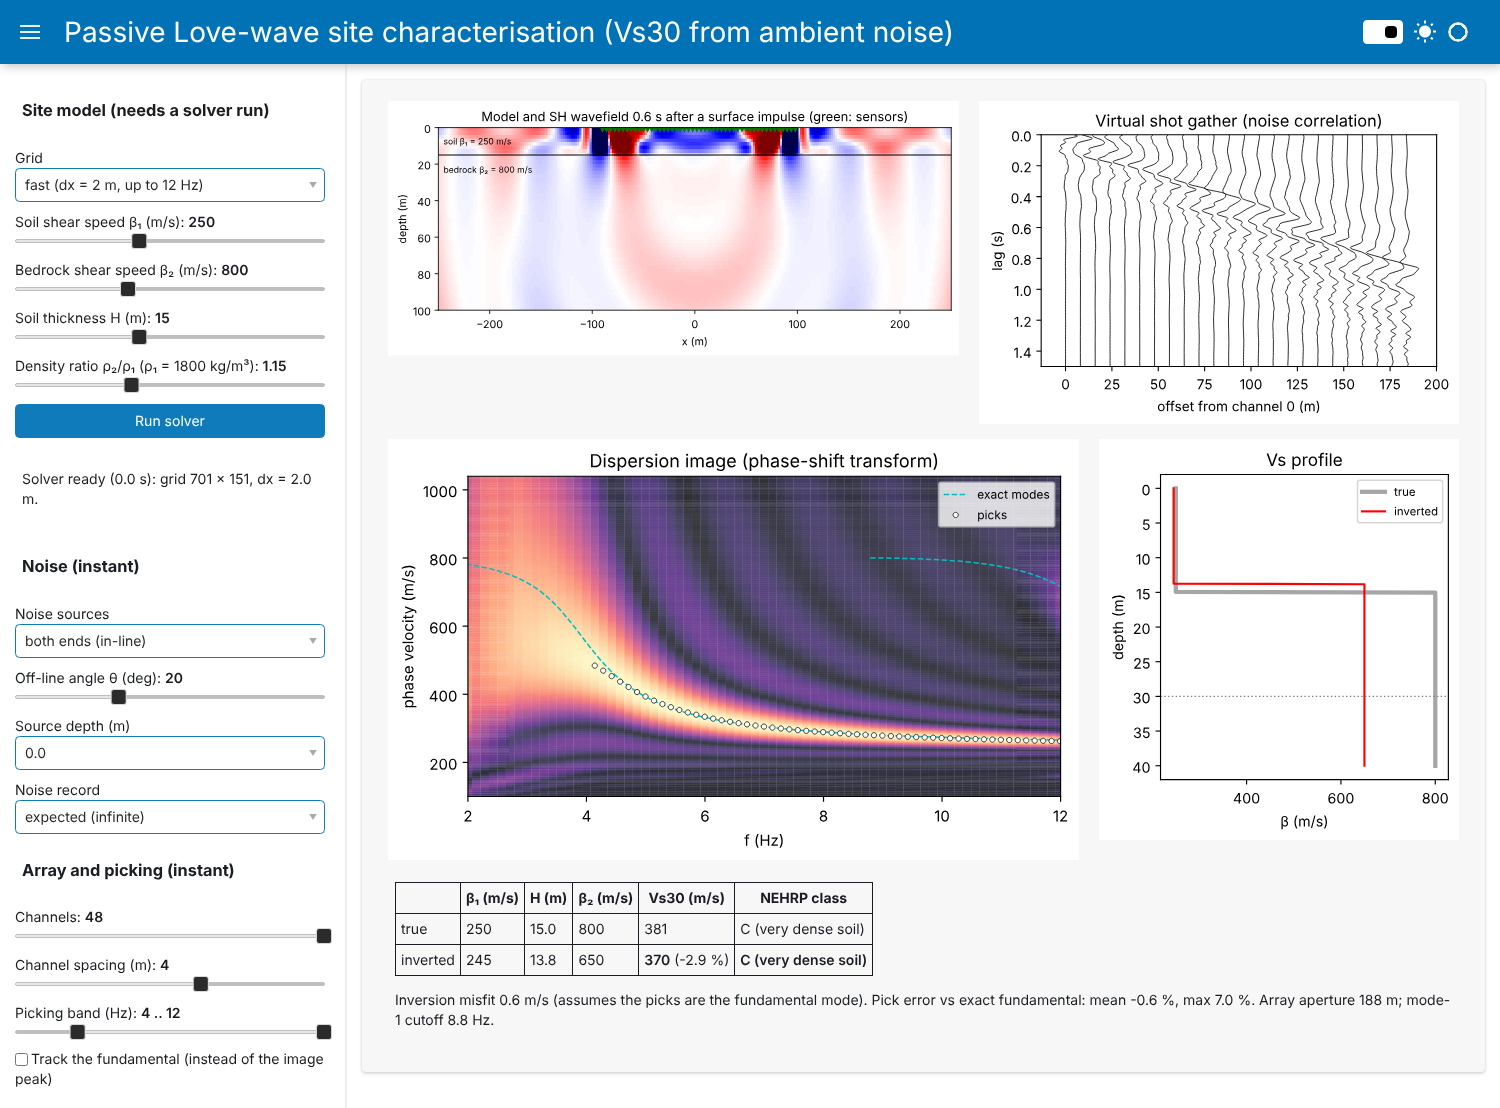
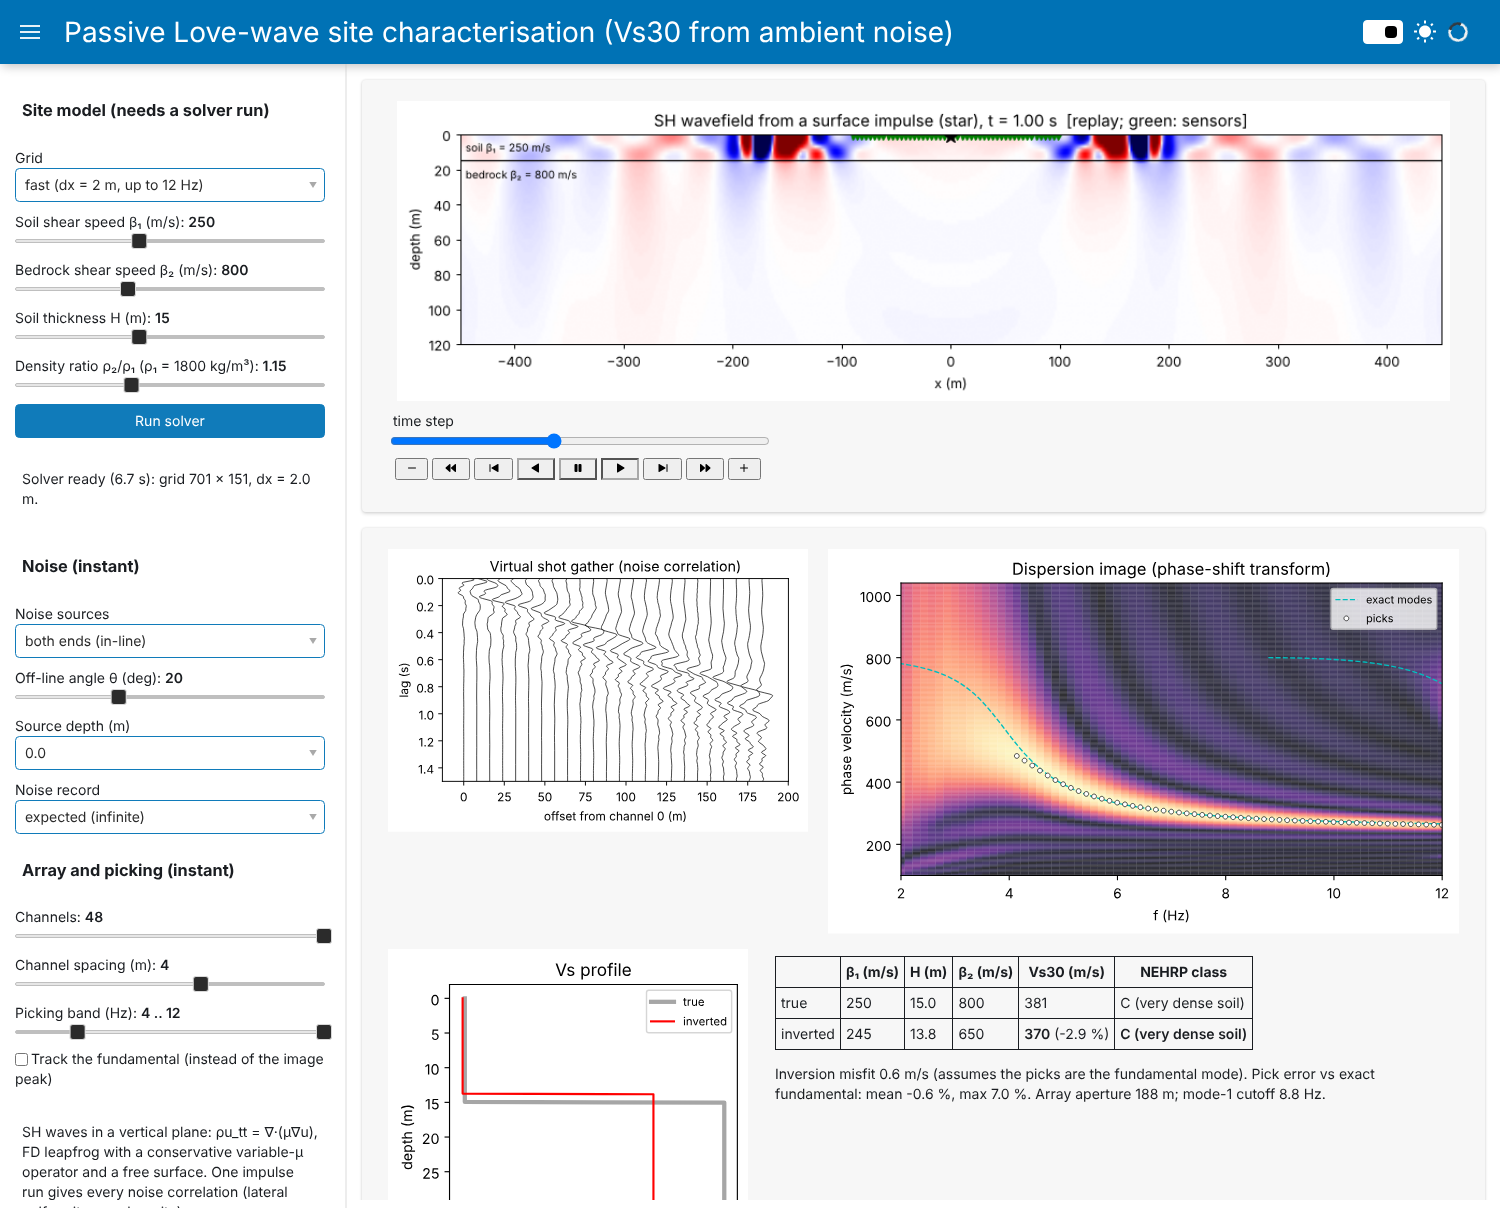
Site app: animate the SH wavefield (live during the solve, then a looping replay)
Claude-Session: https://claude.ai/code/session_011ua6V7MJqqKvH74CcxidF8

diff --git a/site_app.py b/site_app.py
@@ -6,8 +6,9 @@ All numerics live in love_waves.py; this file only wires widgets to plots.
 
 Two kinds of controls:
   * Site model and grid: need one new FD run (a few seconds on the fast grid, ~30-60 s on
-    the standard grid), started with "Run solver". Results are cached in memory and on
-    disk (.cache/), so each model is only ever solved once.
+    the standard grid), started with "Run solver". The wavefield is drawn live while the
+    solver runs, then replayed as a looping animation (play/pause/scrub with the player).
+    Results are cached in memory and on disk (.cache/), so each model is only solved once.
   * Noise sources, array and picking: only re-weight the stored Green's functions, so the
     plots update instantly.
 """
@@ -25,9 +26,9 @@ GRIDS = {"fast (dx = 2 m, up to 12 Hz)": (2.0, 12.0), "standard (dx = 1 m, up to
 C_TRIAL = np.linspace(100, 1300, 601)
 
 
-def love_line(site, dx, progress=None):
+def love_line(site, dx, progress=None, on_snapshot=None):
     """One FD impulse run for a site, cached in memory (all sessions) and on disk."""
-    key = f"love_dx{dx}_b{site.b1:.0f}-{site.b2:.0f}_H{site.H:.1f}_r{site.r1:.0f}-{site.r2:.0f}"
+    key = f"love_v2_dx{dx}_b{site.b1:.0f}-{site.b2:.0f}_H{site.H:.1f}_r{site.r1:.0f}-{site.r2:.0f}"
     mem = pn.state.cache.setdefault("love", {})
     if key in mem:
         return mem[key]
@@ -35,7 +36,7 @@ def love_line(site, dx, progress=None):
     if path.exists():
         ll = pickle.loads(path.read_bytes())
     else:
-        ll = L.LoveLine(site, L.Grid(dx=dx), progress=progress)
+        ll = L.LoveLine(site, L.Grid(dx=dx), progress=progress, on_snapshot=on_snapshot)
         CACHE_DIR.mkdir(exist_ok=True)
         path.write_bytes(pickle.dumps(ll))
     mem[key] = ll
@@ -64,7 +65,7 @@ w_dch = pn.widgets.FloatSlider(name="Channel spacing (m)", start=1, end=6, step=
 w_band = pn.widgets.RangeSlider(name="Picking band (Hz)", start=2, end=20, step=0.5, value=(4, 12))
 w_track = pn.widgets.Checkbox(name="Track the fundamental (instead of the image peak)", value=False)
 refresh = pn.widgets.IntInput(value=0, visible=False)
-state = {"ll": None}
+state = {"ll": None, "lim": 1.0}
 
 
 def current_site():
@@ -82,12 +83,26 @@ async def rerun(_=None):
         bar.value = int(100 * q)
         print(f"  FD solver: {100 * q:3.0f}%", flush=True)
 
+    grid = L.Grid(dx=dx)
+    player.disabled = True
+    player.pause()
+
+    last = [0.0]
+
+    def live(t, frame):                 # called from the worker thread for every new frame
+        if time.time() - last[0] < 0.4:  # draw at most ~2.5 frames/s so the solver isn't slowed
+            return
+        last[0] = time.time()
+        lim = max(np.percentile(np.abs(frame), 99.5), 1e-30)
+        wave_pane.object = wave_figure(frame, t, site, grid.half_width, grid.depth, lim, live=True)
+
     try:
-        state["ll"] = await asyncio.to_thread(love_line, site, dx, progress)
+        state["ll"] = await asyncio.to_thread(love_line, site, dx, progress, live)
         g = state["ll"].grid
         status.object = f"Solver ready ({time.time() - t0:.1f} s): grid {g.nx} x {g.nz}, dx = {dx} m."
         w_band.end = fmax
         w_band.value = (w_band.value[0], min(w_band.value[1], fmax))
+        start_movie()
     except Exception as err:
         status.object = f"**Solver failed:** {err!r}"
         raise
@@ -100,21 +115,53 @@ w_run.on_click(rerun)
 pn.state.onload(rerun)
 
 
-# ---------------------------------------------------------------- plots
-def section_plot(ll, rx):
-    fig = Figure(figsize=(7.5, 3.4)); ax = fig.subplots()
-    snap = ll.snaps[0.6]; lim = np.percentile(np.abs(snap), 99.5)
-    hw = ll.grid.half_width
-    ax.imshow(snap, extent=[-hw, hw, ll.z_snap[-1], 0], cmap="seismic", vmin=-lim, vmax=lim, aspect="auto")
-    ax.axhline(ll.site.H, color="k", lw=1)
-    ax.plot(rx, np.zeros_like(rx) + 1, "gv", ms=4)
-    ax.set(xlim=(-250, 250), ylim=(100, 0), xlabel="x (m)", ylabel="depth (m)",
-           title="Model and SH wavefield 0.6 s after a surface impulse (green: sensors)")
-    ax.text(-245, ll.site.H / 2, f"soil β₁ = {ll.site.b1:.0f} m/s", va="center", fontsize=8)
-    ax.text(-245, ll.site.H + 8, f"bedrock β₂ = {ll.site.b2:.0f} m/s", va="center", fontsize=8)
+# ---------------------------------------------------------------- wavefield movie
+def wave_figure(frame, t, site, half_width, depth, lim, live=False):
+    """One frame of the SH wavefield over the model cross-section."""
+    fig = Figure(figsize=(11, 3.2)); ax = fig.subplots()
+    ax.imshow(frame, extent=[-half_width, half_width, depth, 0], cmap="seismic", vmin=-lim, vmax=lim,
+              aspect="auto", interpolation="bilinear")
+    ax.axhline(site.H, color="k", lw=1)
+    rx = L.channels(w_nch.value, w_dch.value, -90.0)
+    ax.plot(rx, np.ones_like(rx), "gv", ms=4)
+    ax.plot(0, 1, "k*", ms=10)
+    ax.text(-half_width + 5, site.H / 2, f"soil β₁ = {site.b1:.0f} m/s", va="center", fontsize=8)
+    ax.text(-half_width + 5, site.H + 8, f"bedrock β₂ = {site.b2:.0f} m/s", va="center", fontsize=8)
+    what = "solver running" if live else "replay"
+    ax.set(xlim=(-half_width, half_width), ylim=(min(depth, 120), 0), xlabel="x (m)", ylabel="depth (m)",
+           title=f"SH wavefield from a surface impulse (star), t = {t:.2f} s  [{what}; green: sensors]")
     fig.tight_layout(); return fig
 
 
+def show_frame(i):
+    """Draw stored frame i of the current model (called by the player)."""
+    ll = state["ll"]
+    if ll is None:
+        return
+    t = L.LoveLine.FRAME_TIMES[i]
+    wave_pane.object = wave_figure(ll.snaps[t], t, ll.site, ll.grid.half_width, ll.grid.depth, state["lim"])
+
+
+def start_movie():
+    """After a solve: fix one colour scale for all frames (Love waves, not the source
+    singularity, set it) and loop the animation."""
+    ll = state["ll"]
+    late = [ll.snaps[t] for t in L.LoveLine.FRAME_TIMES if t >= 0.4]
+    state["lim"] = float(np.percentile(np.abs(np.stack(late)), 99.5))
+    player.disabled = False
+    player.value = 0
+    show_frame(0)
+    player.play()
+
+
+wave_pane = pn.pane.Matplotlib(None, tight=True, format="png", dpi=90, height=300, sizing_mode="stretch_width")
+player = pn.widgets.Player(name="time step", start=0, end=len(L.LoveLine.FRAME_TIMES) - 1, value=0,
+                           loop_policy="loop", interval=150, show_loop_controls=False, width=380,
+                           sizing_mode="fixed", disabled=True)
+player.param.watch(lambda e: show_frame(e.new), "value")
+
+
+# ---------------------------------------------------------------- plots
 def gather_plot(ll, U, off):
     fig = Figure(figsize=(5, 3.4)); ax = fig.subplots()
     t, tr = ll.to_time(U, 2.0, ll.f[-1] - 2)
@@ -177,11 +224,10 @@ fundamental: mean {100 * np.mean(cp / exact - 1):+.1f} %, max {100 * np.max(np.a
 Array aperture {off[-1]:.0f} m; mode-1 cutoff {site.cutoff(1):.1f} Hz.
 """)
     return pn.Column(
-        pn.Row(pn.pane.Matplotlib(section_plot(ll, rx), tight=True, format="svg"),
-               pn.pane.Matplotlib(gather_plot(ll, U, off), tight=True, format="svg", width=480, sizing_mode="fixed")),
-        pn.Row(pn.pane.Matplotlib(dispersion_plot(ll, img, fp, cp, site), tight=True, format="svg"),
-               pn.pane.Matplotlib(profile_plot(site, p), tight=True, format="svg", width=360, sizing_mode="fixed")),
-        table)
+        pn.Row(pn.pane.Matplotlib(gather_plot(ll, U, off), tight=True, format="svg", width=420, sizing_mode="fixed"),
+               pn.pane.Matplotlib(dispersion_plot(ll, img, fp, cp, site), tight=True, format="svg")),
+        pn.Row(pn.pane.Matplotlib(profile_plot(site, p), tight=True, format="svg", width=360, sizing_mode="fixed"),
+               table))
 
 
 controls = pn.Column(
@@ -195,5 +241,6 @@ controls = pn.Column(
 pn.template.FastListTemplate(
     title="Passive Love-wave site characterisation (Vs30 from ambient noise)",
     sidebar=[controls],
-    main=[pn.bind(view, w_layout, w_theta, w_depth, w_win, w_nch, w_dch, w_band, w_track, refresh)],
+    main=[pn.Column(wave_pane, player),
+          pn.bind(view, w_layout, w_theta, w_depth, w_win, w_nch, w_dch, w_band, w_track, refresh)],
 ).servable()

diff --git a/love_waves.py b/love_waves.py
@@ -166,7 +166,8 @@ def harmonic(a, b):
 
 
 def simulate_sh(grid, beta, rho, src_xz, f0, T, t0=None, rows=(), points=(), decim=1,
-                snapshots=(), conservative=True, src_row=False, muz=None, progress=None):
+                snapshots=(), conservative=True, src_row=False, muz=None, snap_decim=1, on_snapshot=None,
+                progress=None):
     """
     Leapfrog solution of rho u_tt + rho sigma u_t = div(mu grad u) + rho w(t) delta(x - x_s).
 
@@ -179,7 +180,9 @@ def simulate_sh(grid, beta, rho, src_xz, f0, T, t0=None, rows=(), points=(), dec
     rows       : depths [m] of horizontal lines recorded in full (|x| <= half_width)
     points     : (n, 2) array of (x, z) point receivers
     decim      : keep every decim-th time step in the records
-    snapshots  : times [s] at which to save the wavefield (physical region only)
+    snapshots  : times [s] at which to save the wavefield (physical region only, every
+                 snap_decim-th node, float32); on_snapshot(t, frame) is called with each
+                 one as it is taken (used by the app to show the wave live)
     conservative: False -> naive beta^2 lap(u) operator (for the interface test only)
     muz        : optional (nz-1, nx) mu at the vertical half-points (see layered_grid);
                  default is the harmonic mean of the node values
@@ -207,7 +210,7 @@ def simulate_sh(grid, beta, rho, src_xz, f0, T, t0=None, rows=(), points=(), dec
     keep = np.abs(g.x) <= g.half_width + 1e-9
     pts = np.reshape(np.asarray(points, float), (-1, 2))
     pz, px = g.iz(pts[:, 1]), g.ix(pts[:, 0])
-    snap_steps = {int(round(ts / dt)): ts for ts in snapshots}
+    snap_steps = {int(round(ts / dt)): round(float(ts), 3) for ts in snapshots}
     zkeep = (g.z >= -1e-9) & (g.z <= g.depth + 1e-9)
 
     u_prev, u = np.zeros((g.nz, g.nx)), np.zeros((g.nz, g.nx))
@@ -222,7 +225,10 @@ def simulate_sh(grid, beta, rho, src_xz, f0, T, t0=None, rows=(), points=(), dec
             rec_rows[it // decim] = u[jr][:, keep]
             rec_pts[it // decim] = u[pz, px]
         if it in snap_steps:
-            snaps[snap_steps[it]] = u[zkeep][:, keep].copy()
+            ts = snap_steps[it]
+            snaps[ts] = u[zkeep][:, keep][::snap_decim, ::snap_decim].astype(np.float32)
+            if on_snapshot:
+                on_snapshot(ts, snaps[ts])
         L[:] = 0.0
         if conservative:
             # x fluxes  F_{j+1/2} = mu (u_{j+1} - u_j);  L_j += F_{j+1/2} - F_{j-1/2}
@@ -257,7 +263,8 @@ def simulate_sh(grid, beta, rho, src_xz, f0, T, t0=None, rows=(), points=(), dec
             u_next[:, [0, -1]] = 0.0
         u_prev, u = u, u_next
     return dict(t=dt * decim * np.arange(rec_rows.shape[0]), dt=dt, rows=rec_rows,
-                x=g.x[keep], points=rec_pts, snaps=snaps, z=g.z[zkeep])
+                x=g.x[keep], points=rec_pts, snaps=snaps, z=g.z[zkeep][::snap_decim],
+                x_snap=g.x[keep][::snap_decim])
 
 
 def layered_grid(site, grid):
@@ -376,13 +383,18 @@ class LoveLine:
     and divided by the Ricker spectrum, so they are band-limited Green's functions.
     """
 
-    def __init__(self, site=None, grid=None, f0=8.0, T=3.5, fmax=30.0, progress=None):
+    FRAME_TIMES = np.round(np.arange(0.05, 2.501, 0.05), 3)   # wavefield movie frames [s]
+
+    def __init__(self, site=None, grid=None, f0=8.0, T=3.5, fmax=30.0, progress=None,
+                 on_snapshot=None):
         self.site, self.grid = site or Site(), grid or Grid()
         beta, rho, muz = layered_grid(self.site, self.grid)
         out = simulate_sh(self.grid, beta, rho, (0.0, 0.0), f0, T, rows=SOURCE_DEPTHS, muz=muz,
                           decim=max(1, int(0.002 / (self.grid.cfl * self.grid.dx / beta.max()))),
-                          snapshots=(0.3, 0.6, 0.9), progress=progress)
-        self.t, self.snaps, self.z_snap = out["t"], out["snaps"], out["z"]
+                          snapshots=self.FRAME_TIMES, snap_decim=max(1, round(2.0 / self.grid.dx)),
+                          on_snapshot=on_snapshot, progress=progress)
+        # snaps: {time: wavefield on a ~2 m grid over the physical region}, for animations
+        self.t, self.snaps, self.z_snap, self.x_snap = out["t"], out["snaps"], out["z"], out["x_snap"]
         x, rows = out["x"], out["rows"]
         dt = self.t[1] - self.t[0]
         self.nfft = 2 * len(self.t)                  # zero pad: correlations need 2T of lag

diff --git a/README.md b/README.md
@@ -44,7 +44,7 @@ conda activate ambient-noise
 
 No conda? Use a virtual environment instead: `python -m venv .venv`, activate it (`source .venv/bin/activate`, or `.venv\Scripts\activate` on Windows), then `pip install -r requirements.txt`.
 
-**Interactive apps.** Run `panel serve site_app.py --show` for the site-characterisation project. On first load it runs one FD solve (about 5 s on the default fast grid, 30–60 s on the standard 1 m grid); after that every noise, array and picking control updates instantly, and each site model is cached. The DAS study app is `panel serve app.py --show`. The page opens right away and starts the station-pair solver, with a progress bar in the sidebar (the terminal also prints progress). The default *fast* grid (Δx = 100 m) takes a few seconds; *standard* (Δx = 50 m, the grid the notebooks use) takes about 15 s. Drag the noise sliders and they update instantly. The *DAS fiber* tab runs one FD problem per cable node (about 120 on the fast grid, run in parallel on all CPU cores; about a minute on a 4-core laptop) the first time you press *Run DAS analysis*. Every result is saved to `.cache/`, so anything you have already run reloads instantly, even after restarting the app.
+**Interactive apps.** Run `panel serve site_app.py --show` for the site-characterisation project. On first load it runs one FD solve (about 7 s on the default fast grid, 30–60 s on the standard 1 m grid). The wavefield is drawn live while it runs, then replays as a looping animation that you can pause and scrub. After that, every noise, array and picking control updates instantly, and each site model is cached. The DAS study app is `panel serve app.py --show`. The page opens right away and starts the station-pair solver, with a progress bar in the sidebar (the terminal also prints progress). The default *fast* grid (Δx = 100 m) takes a few seconds; *standard* (Δx = 50 m, the grid the notebooks use) takes about 15 s. Drag the noise sliders and they update instantly. The *DAS fiber* tab runs one FD problem per cable node (about 120 on the fast grid, run in parallel on all CPU cores; about a minute on a 4-core laptop) the first time you press *Run DAS analysis*. Every result is saved to `.cache/`, so anything you have already run reloads instantly, even after restarting the app.
 
 **Notebooks.** Run `jupyter notebook`, open a notebook and choose *Run All*. Run times on a 4-core laptop are roughly: `site_verification` 7 min (one 0.5 m grid run dominates), `site_characterization` 3 min, `verification` 5 min, `experiments` 5 min, `das_fiber` 10 min (240 FD runs), `array_correction` 10 min.
 
